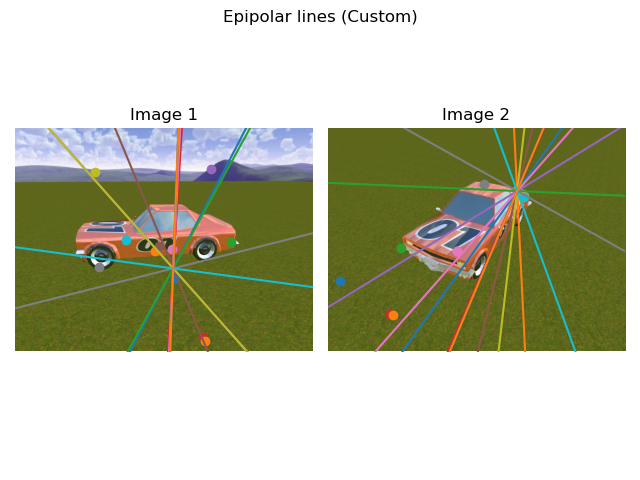
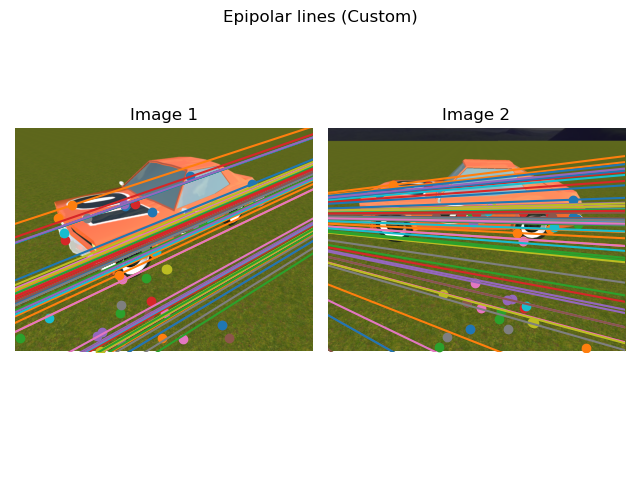
Implementation of ransac for points selection

Changed region(s): [[0.0, 0.25, 1.0, 0.75], [0.375, 0.7188, 0.4062, 0.75]]

diff --git a/ransac.py b/ransac.py
@@ -1,0 +1,107 @@
+import numpy as np
+from epipolar_geometry import u2F
+
+
+def sample(pts1, pts2, n):
+    """
+    Randomly sample n points from pts1 and pts2
+    :param pts1: 3xN array of points
+    :param pts2: 3xN array of points
+    :param n: number of points to sample
+    :return: pts1_sample, pts2_sample
+    """
+    assert pts1.shape[0] == 3, f"Expected pts1 to have shape (3, N), got {pts1.shape}"
+    assert pts2.shape[0] == 3, f"Expected pts2 to have shape (3, N), got {pts2.shape}"
+    assert n <= pts1.shape[1], f"Expected n <= pts1.shape[1], got {n} and {pts1.shape[1]}"
+    assert n <= pts2.shape[1], f"Expected n <= pts2.shape[1], got {n} and {pts2.shape[1]}"
+    idx = np.random.choice(pts1.shape[1], n, replace=False)
+    pts1_sample = pts1[:, idx]
+    pts2_sample = pts2[:, idx]
+
+    return pts1_sample, pts2_sample
+
+def nsamples(n_inliers:int, num_tc:int, sample_size:int , conf: float):
+    """
+    Function, which calculates number of samples needed to achieve desired confidence
+    :param n_inliers: number of inliers
+    :param num_tc: total number of correspondences
+    :param sample_size: size of the sample
+    :param conf: confidence
+    :return: number of samples needed
+    """
+    assert 0 <= n_inliers <= num_tc, f"Expected 0 <= n_inliers <= num_tc, got {n_inliers} n_inliers and {num_tc} num_tc."
+    assert 0 <= conf <= 1, f"Expected 0 <= conf <= 1, got {conf}"
+    assert sample_size <= num_tc, f"Expected sample_size <= num_tc, got {sample_size} and {num_tc}"
+
+    if n_inliers == num_tc:
+        return 1.0
+    inl_ratio = n_inliers / num_tc
+    return np.ceil(np.log(1 - conf) / np.log(1 - np.power(inl_ratio, sample_size)))
+
+def slope(p1, p2):
+    return (p2[1] - p1[1]) / (p2[0] - p1[0]) if p2[0] != p1[0] else None
+
+def fdist(F, pts1, pts2):
+    """
+    Function, which calculates the distance between the predicted points and the actual points
+    :param F: 3x3 fundamental matrix
+    :param pts_matches: 2xN array of points
+    :return: distance
+    """
+    assert F.shape == (3, 3), f"Expected homography to have shape (3, 3), got {F.shape}"
+    assert pts1.shape[0] == 3, f"Expected pts1 to have shape (3, N), got {pts1.shape}"
+    assert pts2.shape[0] == 3, f"Expected pts2 to have shape (3, N), got {pts2.shape}"
+
+    l2 = F @ pts1
+    l1 = F.T @ pts2
+    dist = np.abs(np.sum(pts1 * l1, axis=0)) / np.linalg.norm(l1[:2], axis=0) + np.abs(np.sum(pts2 * l2, axis=0)) / np.linalg.norm(l2[:2], axis=0)
+    return dist
+
+
+def ransac_f(pts_matches: np.array, th: float = 20.0, conf: float = 0.90, max_iter:int = 1000, LO_RANSAC: bool = False):
+    """
+    RANSAC algorithm to find the best model
+    LO-RANSAC (Locally Optimized RANSAC) is a variant of RANSAC that uses a local optimization step to improve the model estimate.
+    :param pts_matches: 2xN array of points
+    :param th: threshold
+    :param conf: confidence
+    :param max_iter: maximum number of iterations
+    :param mode: mode of RANSAC
+    :return: best_model, best_inliers
+    """
+    assert pts_matches.shape[0] == 2, f"Expected pts_matches to have shape (2, N), got {pts_matches.shape}"
+    assert 0 <= conf <= 1, f"Expected 0 <= conf <= 1, got {conf}"
+    assert max_iter > 0, f"Expected max_iter > 0, got {max_iter}"
+
+    best_F = np.eye(3)
+    inlier = np.zeros(pts_matches.shape[2], dtype=bool)
+
+    i = 0
+    while i < max_iter:
+        # Sample 4 correspondences
+        sample_pts = sample(pts_matches[0], pts_matches[1], 7)
+
+        # Estimate homography from the sample
+        FF = u2F(sample_pts[0], sample_pts[1])
+
+        if len(FF) == 0:
+            continue
+
+        # Calculate the distance between the predicted points and the actual points
+        for F in FF:
+            # Calculate the distance between the predicted points and the actual points
+            dist = fdist(F, pts_matches[0], pts_matches[1])
+            inliers = dist < th
+
+            if inliers.sum() > inlier.sum():
+                best_F = F
+                inlier = inliers
+        if LO_RANSAC: # if LO-RANSAC mode is enabled, perform local optimization
+            max_iter = nsamples(inlier.sum(), pts_matches.shape[2], 7, conf)
+            max_iter = min(max_iter, 10000) # Limit the number of iterations to 100000
+        i += 1
+
+    assert inlier.size == pts_matches.shape[2], f"Expected {pts_matches.shape[2]} inliers, got {inlier.size} inliers."
+    assert best_F.shape == (3, 3), f"Expected (3, 3) fundamental matrix, got {best_F.shape} fundamental matrix."
+    selected_points = np.where(inlier)[0]
+    return best_F, selected_points

diff --git a/reconstruction.py b/reconstruction.py
@@ -1,35 +1,40 @@
 import cv2
 import numpy as np
 
-from epipolar_geometry import get_best_E, EKs2F, E2RsCs
+from epipolar_geometry import EKs2F, E2RsCs, FKs2E
 from visualization import plot_epipolar_line
+from ransac import ransac_f
 
 def reconstruct_scene(pts0, pts1, K1, K2, image1, image2):
     u1 = np.vstack([pts0.T, np.ones(pts0.shape[0])])
     u2 = np.vstack([pts1.T, np.ones(pts1.shape[0])])
 
-    idx = np.arange(u1.shape[1])    # TODO : Too many indices, select fewer indices
-    E, Fe, best_idx = get_best_E(idx, u1, u2, K1, K2)
+    # Compute the best Fundamental matrix using ransac
+    F, selected_points = ransac_f(pts_matches=np.array([u1, u2]), LO_RANSAC=True)
+    print(f"Fundamental matrix:\n{F}")
+    print(f"Selected points: {selected_points}")
 
-    F = EKs2F(E, K1, K2)
+    # Compute the best Essential matrix
+    E = FKs2E(F, K1=K1, K2=K2)
+    print(f"Essential matrix:\n{E}")
 
-    # Plot epipolar lines
-    plot_epipolar_line(image1, image2, u1, u2, idx, F, title='Epipolar lines (Custom)')
+    # Compute the best Rotation and Translation
+    R1, R2s, C1, C2s = E2RsCs(E)
+    print(f"R1:\n{R1}")
+    print(f"R2:\n{R2s}")
+    print(f"C1:\n{C1}")
+    print(f"C2:\n{C2s}")
+
+    # Plot the epipolar lines
+    plot_epipolar_line(image1, image2, u1, u2, np.arange(u1.shape[1]), F, title='Epipolar lines (Custom)')
 
     # Compute the projection matrices
-    R1, R2s, C1, C2s = E2RsCs(E)
+    P1 = K1 @ np.hstack([R1, C1.reshape(-1, 1)])
+    P2 = K2 @ np.hstack([R2s[0], C2s[0].reshape(-1, 1)]) # Select the first rotation and translation
 
-    # Triangulate points
-    points_3d = []
-    for i in range(len(R2s)):
-        R1 = np.eye(3)
-        C1 = np.zeros(3)
-        P1 = K1 @ np.hstack([R1, C1.reshape(-1, 1)])
-        P2 = K2 @ np.hstack([R2s[i], C2s[i].reshape(-1, 1)])
-        points_4d = cv2.triangulatePoints(P1, P2, u1[:2, best_idx], u2[:2, best_idx])
-        points_4d /= points_4d[3, :]
-        points_3d.append(points_4d[:3, :])
+    # Triangulate the points
+    points = cv2.triangulatePoints(P1, P2, pts0.T, pts1.T)
+    points /= points[3]
+    points = points[:3].T
 
-    # Keep the points with positive depth
-    points_3d = np.array(points_3d[0]) # TODO : Fix this
-    return points_3d
+    return points

diff --git a/epipolar_geometry.py b/epipolar_geometry.py
@@ -130,6 +130,40 @@ def compute_epipolar_errors(F, u1, u2):
 
     return errors1, errors2
 
+def get_best_F(idx, u1, u2):
+    """
+    Generate all 7-tuples from the selected set of 12 correspondences,
+    estimate F for each of them and chose the one,
+    that minimizes maximal epipolar error over all matches.
+    :param idx: 7-tuple of indices
+    :param u1: 3xN array of homogeneous coordinates
+    :param u2: 3xN array of homogeneous coordinates
+    :return: 3x3 fundamental matrix
+    """
+    assert u1.shape[0] == 3, f"u1 shape is {u1.shape}, expected (3, N)"
+    assert u2.shape[0] == 3, f"u2 shape is {u2.shape}, expected (3, N)"
+
+    max_error = np.inf
+    F_best = None
+    best_indices = None
+    selected_u1 = u1[:, idx]
+    selected_u2 = u2[:, idx]
+
+    # Generate all combinations of fundamental matrices
+    combinations = list(itertools.combinations(range(12), 7))
+    for comb in combinations:
+        u1_ = selected_u1[:, comb]
+        u2_ = selected_u2[:, comb]
+        FF = u2F(u1_, u2_)
+        for F in FF:
+            errors = sum(compute_epipolar_errors(F, u1, u2))
+            if np.max(errors) < max_error:
+                max_error = np.max(errors)
+                F_best = F
+                best_indices = comb
+        best_points = idx[list(best_indices)]
+        return F_best, best_points
+
 def get_best_E(idx, u1, u2, K1, K2):
     """
     Get the best Essential matrix from a list of points and camera calibration matrix

diff --git a/main.py b/main.py
@@ -16,7 +16,6 @@ from epipolar_geometry import get_best_E, EKs2F, E2RsCs
 
 
 
-
 if __name__ == '__main__':
     # Load Cameras data
     df = pd.read_csv(os.path.join('data', 'cameras_parameters.csv'), sep=';')
@@ -49,7 +48,7 @@ if __name__ == '__main__':
     print("Matches found: ", pts0.shape[0])
 
     # Plot the matches
-    plot_matches(images[0], images[1], pts0, pts1)
+    #plot_matches(images[0], images[1], pts0, pts1)
 
     # 1. Reconstruction using OpenCV functions
     points_3d_cv = reconstruction_opencv.reconstruct_scene(pts0, pts1, Ks[0], Ks[1], images[0], images[1])
@@ -57,9 +56,9 @@ if __name__ == '__main__':
     # 2. Reconstruction using custom functions
     points_3d = reconstruction.reconstruct_scene(pts0, pts1, Ks[0], Ks[1], images[0], images[1])
 
-    # 3. Plot the 3D points
+    # 3. Plot the 3D points TODO: Implement this part
     # 3.1 Plot the 3D points using OpenCV functions
-    plot_vertices(points_3d_cv, title='3D points (OpenCV reconstruction)')
+    #plot_vertices(points_3d_cv, title='3D points (OpenCV reconstruction)')
 
     # 3.2 Plot the 3D points using custom functions
-    plot_vertices(points_3d, title='3D points (Custom reconstruction)')
+    #plot_vertices(points_3d, title='3D points (Custom reconstruction)')

diff --git a/features_detection.py b/features_detection.py
@@ -25,8 +25,6 @@ def match_images(images, sift):
             good_matches.append(m)
     # sort them by distance
     good_matches = sorted(good_matches, key=lambda x: x.distance)
-    # select the best 12
-    good_matches = good_matches[:12]
 
     # Get keypoints coordinates
     pts0 = np.array([keypoints[0][m.queryIdx].pt for m in good_matches])
